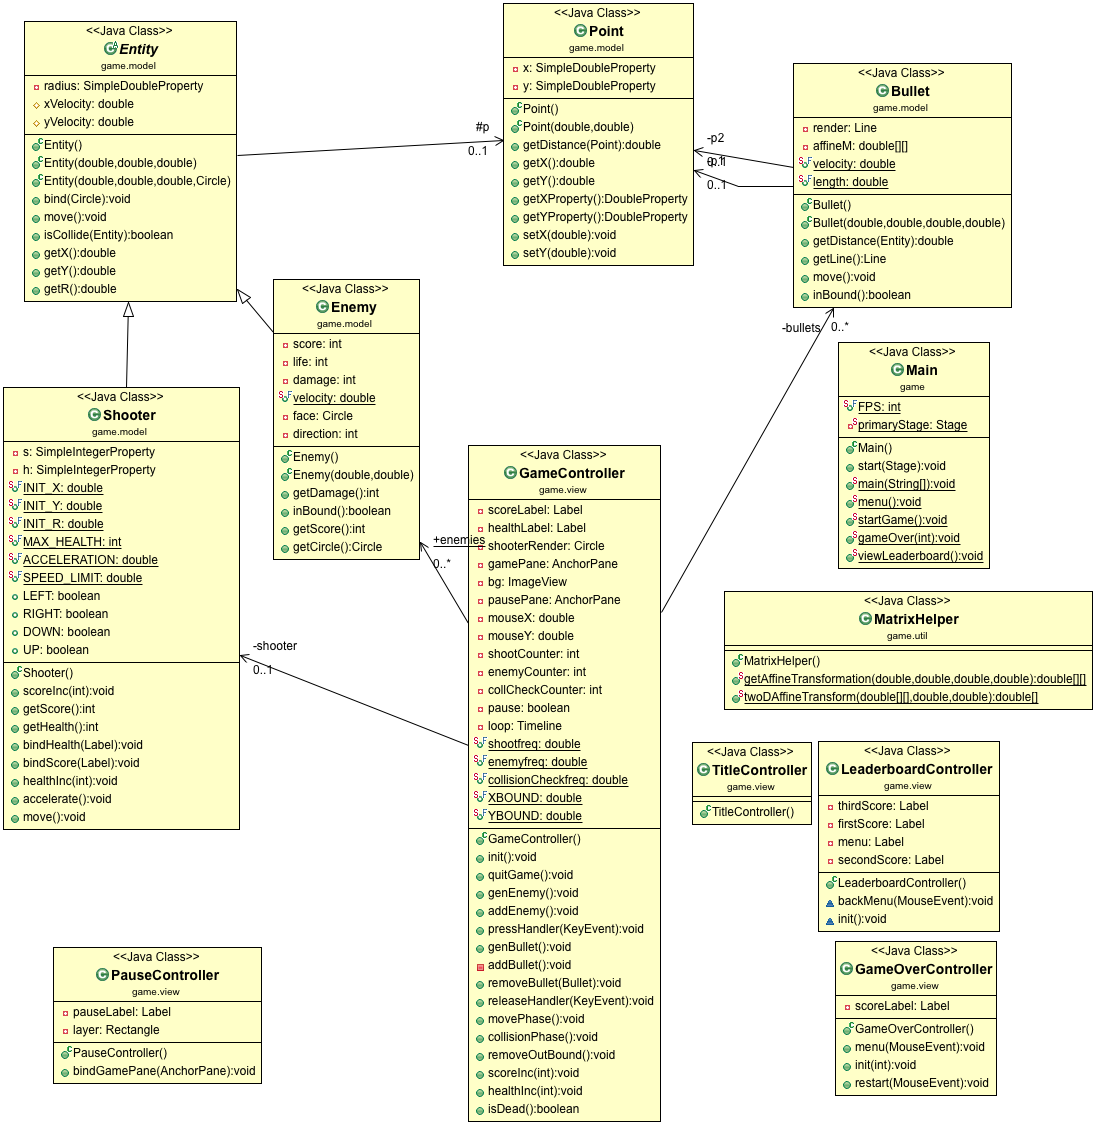
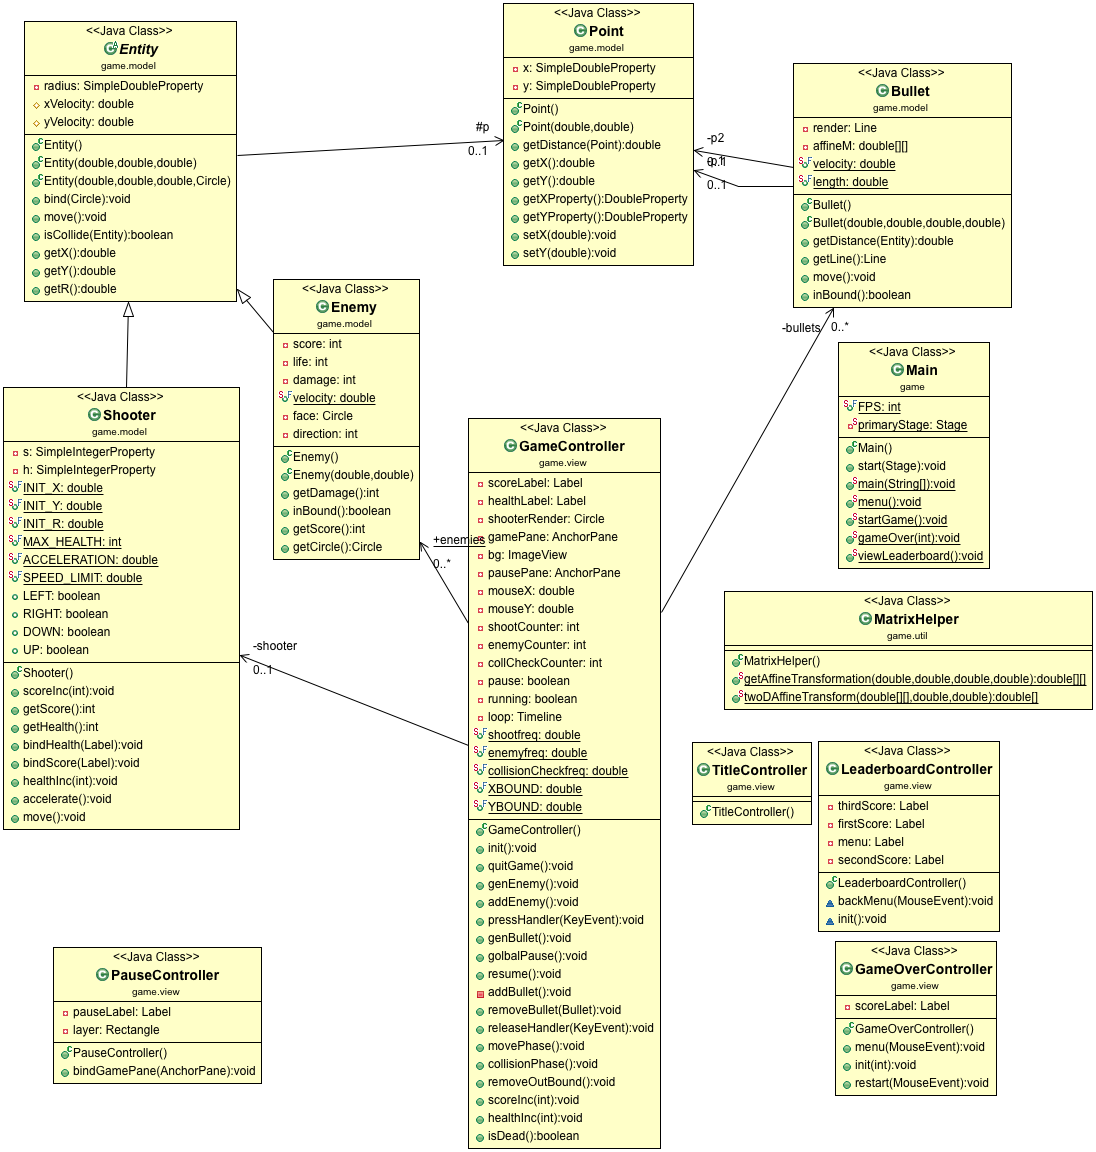
curtain

diff --git a/src/game/view/GameController.java b/src/game/view/GameController.java
@@ -20,6 +20,7 @@ import javafx.scene.image.ImageView;
 import javafx.scene.input.KeyEvent;
 import javafx.scene.input.MouseEvent;
 import javafx.scene.layout.AnchorPane;
+import javafx.scene.layout.Pane;
 import javafx.scene.shape.Circle;
 import javafx.scene.shape.Line;
 import javafx.util.Duration;
@@ -37,7 +38,9 @@ public class GameController
 	private AnchorPane gamePane;
 	@FXML
 	private ImageView bg;
+	private Pane scenePane;
 	private AnchorPane pausePane;
+	private Curtain curtain;
 	//model
 	private LinkedList<Bullet> bullets;
 	public static LinkedList<Enemy> enemies;
@@ -49,6 +52,7 @@ public class GameController
 	private int enemyCounter=0;
 	private int collCheckCounter=0;
 	private boolean pause=false;
+	private boolean running=true;
 	private Timeline loop;
 	// constant
 	public static final double shootfreq=2;
@@ -58,7 +62,7 @@ public class GameController
 	public static final double YBOUND=500;
 	public GameController() {
 	}
-	public void init() throws IOException
+	public void init(Pane scene) throws IOException
 	{
 		//init variable
 		bullets=new LinkedList<Bullet>();
@@ -69,6 +73,10 @@ public class GameController
 		pausePane=loader.load();
 		PauseController controller=loader.getController();
 		controller.bindGamePane(gamePane);
+		//init curtain
+		scenePane=scene;
+		curtain=new Curtain(this);
+		curtain.bind(scene);
 		//bind model and render
 		shooter.bind(shooterRender);
 		shooter.bindHealth(healthLabel);
@@ -113,6 +121,12 @@ public class GameController
 		loop.setCycleCount(Timeline.INDEFINITE);
 		loop.play();
 	}
+	public void start(int level)
+	{
+		globalStop();
+		curtain.setText("Level: "+level);
+		curtain.start(scenePane);
+	}
 	public void quitGame()
 	{
 		loop.stop();
@@ -134,38 +148,41 @@ public class GameController
 	}
 	public void pressHandler(KeyEvent e)
 	{
-		switch(e.getCode())
+		if(running)
 		{
-		case LEFT:
-			shooter.LEFT=true;
-			break;
-		case RIGHT:
-			shooter.RIGHT=true;
-			break;
-		case DOWN:
-			shooter.DOWN=true;
-			break;
-		case UP:
-			shooter.UP=true;
-			break;
-		case ESCAPE:
-			//System.out.println("pause");
-			if(!pause)
+			switch(e.getCode())
 			{
-				//pause
-				loop.pause();
-				gamePane.getChildren().add(pausePane);
+			case LEFT:
+				shooter.LEFT=true;
+				break;
+			case RIGHT:
+				shooter.RIGHT=true;
+				break;
+			case DOWN:
+				shooter.DOWN=true;
+				break;
+			case UP:
+				shooter.UP=true;
+				break;
+			case ESCAPE:
+				//System.out.println("pause");
+				if(!pause)
+				{
+					//pause
+					loop.pause();
+					gamePane.getChildren().add(pausePane);
+				}
+				else
+				{
+					//resume
+					loop.play();
+					gamePane.getChildren().remove(pausePane);
+				}
+				pause=!pause;
+				break;
+			default:
+				break;
 			}
-			else
-			{
-				//resume
-				loop.play();
-				gamePane.getChildren().remove(pausePane);
-			}
-			pause=!pause;
-			break;
-		default:
-			break;
 		}
 	}
 	public void genBullet()
@@ -177,6 +194,8 @@ public class GameController
 			shootCounter=0;
 		}
 	}
+	public void globalStop() {running=false;loop.pause();}
+	public void globalPlay() {running=true;loop.play();}
 	private void addBullet()
 	{
 		Bullet b=new Bullet(shooter.getX(),shooter.getY(),mouseX,mouseY);
@@ -189,22 +208,25 @@ public class GameController
 	}
 	public void releaseHandler(KeyEvent e)
 	{
-		switch(e.getCode())
+		if(running)
 		{
-		case LEFT:
-			shooter.LEFT=false;
-			break;
-		case RIGHT:
-			shooter.RIGHT=false;
-			break;
-		case DOWN:
-			shooter.DOWN=false;
-			break;
-		case UP:
-			shooter.UP=false;
-			break;
-		default:
-			break;
+			switch(e.getCode())
+			{
+			case LEFT:
+				shooter.LEFT=false;
+				break;
+			case RIGHT:
+				shooter.RIGHT=false;
+				break;
+			case DOWN:
+				shooter.DOWN=false;
+				break;
+			case UP:
+				shooter.UP=false;
+				break;
+			default:
+				break;
+			}
 		}
 	}
 	public void movePhase()
@@ -234,12 +256,12 @@ public class GameController
 			for(Iterator<Bullet> itor=bullets.iterator();itor.hasNext();)
 			{
 				Bullet b=itor.next();
-				
+
 				for(Iterator<Enemy> itor2=enemies.iterator();itor2.hasNext();)
 				{
 					Enemy e=itor2.next();
 					double distance=b.getDistance(e);
-					
+
 					if(distance<e.getR())
 					{
 						shooter.scoreInc(e.getScore());
@@ -298,4 +320,12 @@ public class GameController
 	{
 		return (shooter.getHealth()<=0);
 	}
+	@Override
+	protected void finalize() throws Throwable {
+		// TODO Auto-generated method stub
+		System.out.println("gameController garbage");
+		super.finalize();
+	}
+	
+	
 }

diff --git a/src/game/view/Curtain.java b/src/game/view/Curtain.java
@@ -1,0 +1,84 @@
+package game.view;
+
+import java.io.IOException;
+
+import game.Main;
+import javafx.animation.KeyFrame;
+import javafx.animation.Timeline;
+import javafx.event.ActionEvent;
+import javafx.event.Event;
+import javafx.event.EventHandler;
+import javafx.scene.control.Label;
+import javafx.scene.layout.Pane;
+import javafx.scene.paint.Color;
+import javafx.scene.shape.Rectangle;
+import javafx.util.Duration;
+
+public class Curtain 
+{
+	private Rectangle curtain;
+	private Label dialog;
+	private GameController controller;
+	public static final int COUNT=300;
+	public Curtain(GameController controller)
+	{
+		this.controller=controller;
+		curtain=new Rectangle();
+		curtain.setTranslateX(0);
+		curtain.setTranslateY(0);
+		curtain.setLayoutX(0);
+		curtain.setLayoutY(0);
+		dialog=new Label();
+		dialog.setLayoutX(0);
+		dialog.setLayoutY(0);
+		dialog.setTextFill(Color.WHITE);
+	}
+	public void bind(Pane scene)
+	{
+		curtain.widthProperty().bind(scene.widthProperty());
+		curtain.heightProperty().bind(scene.heightProperty());
+	}
+	public void setText(String text)
+	{
+		dialog.setText(text);
+	}
+	private void close(Pane scene)
+	{
+		scene.getChildren().add(curtain);
+		scene.getChildren().add(dialog);
+	}
+	private void open(Pane scene)
+	{
+		scene.getChildren().remove(dialog);
+		scene.getChildren().remove(curtain);
+	}
+	public void start(Pane scene)
+	{
+		close(scene);
+		CurtainHandler c=new CurtainHandler();
+		Timeline temp = new Timeline(
+				new KeyFrame(Duration.millis(1000/Main.FPS), c));
+		c.setPane(scene);
+		c.setTimeline(temp);
+		temp.setCycleCount(Timeline.INDEFINITE);
+		temp.play();
+	}
+	public class CurtainHandler implements EventHandler<ActionEvent>
+	{
+		private int counter=0;
+		private Pane scene;
+		private Timeline t;
+		@Override
+		public void handle(ActionEvent event) {
+			counter++;
+			if(counter>COUNT)
+			{
+				open(scene);
+				controller.globalPlay();
+				t.pause();
+			}
+		}
+		public void setPane(Pane scene) {this.scene=scene;}
+		public void setTimeline(Timeline t) {this.t=t;}
+	}
+}

diff --git a/src/game/Main.java b/src/game/Main.java
@@ -56,7 +56,7 @@ public class Main extends Application{
 			StackPane gamePane =(StackPane) loader.load();
 			GameController gameController=loader.getController();
 			
-			gameController.init();
+			gameController.init(gamePane);
 			Scene scene=new Scene(gamePane);
 			//add event handler
 			scene.addEventHandler(KeyEvent.KEY_PRESSED, e->{
@@ -65,7 +65,8 @@ public class Main extends Application{
 			scene.addEventHandler(KeyEvent.KEY_RELEASED, e->{
 				gameController.releaseHandler(e);
 			});
-			primaryStage.setScene(scene);			
+			primaryStage.setScene(scene);
+			gameController.start(1);
 		}
 	public static void gameOver(int score) throws IOException
 	{

diff --git a/src/game/model/Level.java b/src/game/model/Level.java
@@ -1,0 +1,5 @@
+package game.model;
+
+public class Level {
+
+}
